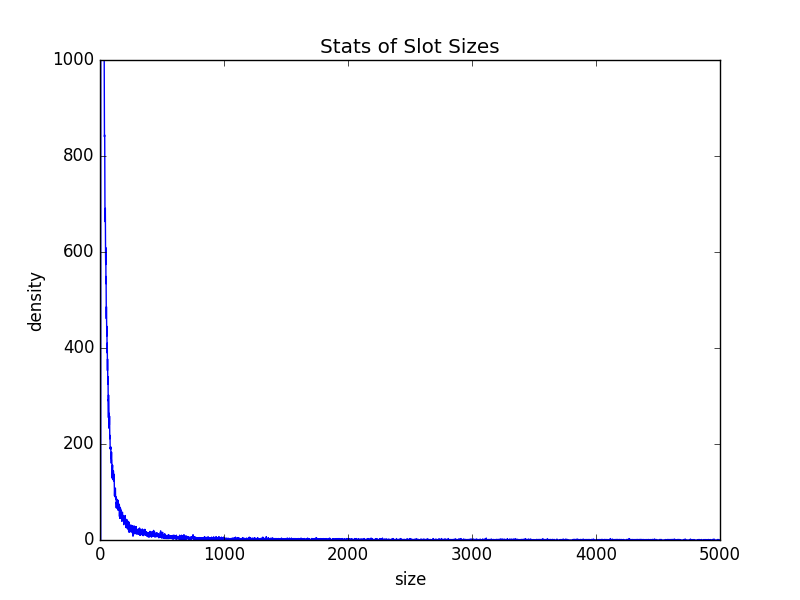
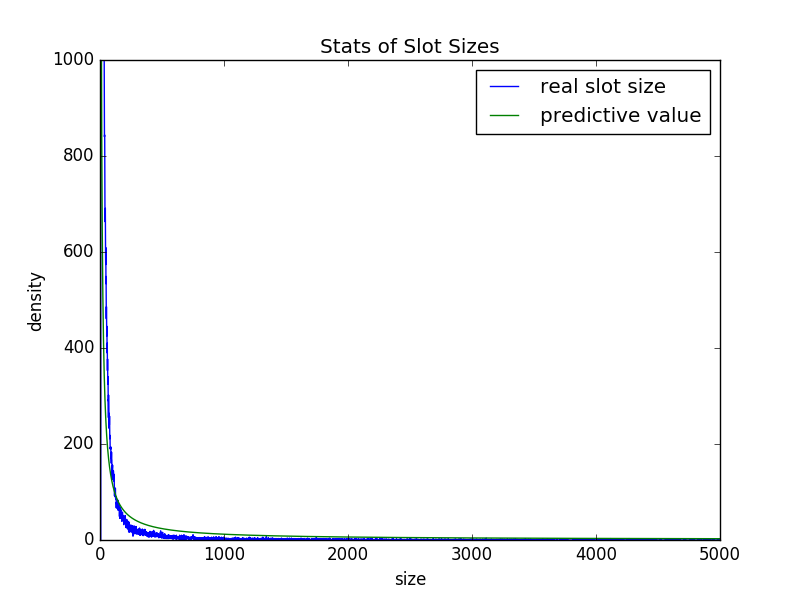
update stat.py

Changed region(s): [[0.5938, 0.09, 0.9062, 0.24], [0.1875, 0.87, 0.875, 0.9], [0.125, 0.42, 0.1562, 0.45]]

diff --git a/scripts/stat.py b/scripts/stat.py
@@ -8,16 +8,22 @@ import numpy as np
 import matplotlib.pylab as pl
 
 
-def plot(stats):
+def plot(stats, w):
     pl.title("Stats of Slot Sizes")
     pl.xlabel("size")
     pl.ylabel("density")
     pl.xlim(0,5000)
     pl.ylim(0,1000)
-    pl.plot(stats)
+    pl.plot(stats, label='real slot size')
+    y = []
+    for x in range(1,len(stats)):
+        y.append(w[0,0]+w[1,0]/x)
+    pl.plot(range(1,len(stats)),y, label='predictive value')
+    pl.legend()
     pl.show()
 
 def regress(stats):
+    LAMBDA = 0
     X = [[], []]
     y = []
     for idx in range(1, len(stats)):
@@ -26,7 +32,7 @@ def regress(stats):
         y.append(stats[idx])
     X = np.mat(X)
     y = np.mat(y)
-    return inv(X*X.transpose())*X*y.transpose()
+    return inv(LAMBDA*np.eye(X.shape[0])+X*X.transpose())*X*y.transpose()
 
 
 if __name__=='__main__':
@@ -57,5 +63,5 @@ if __name__=='__main__':
             break
     w = regress(stats)
     print "density = "+str(w[0,0])+" + "+str(w[1,0])+" / slot_size"
-    plot(stats)
+    plot(stats, w)
 
